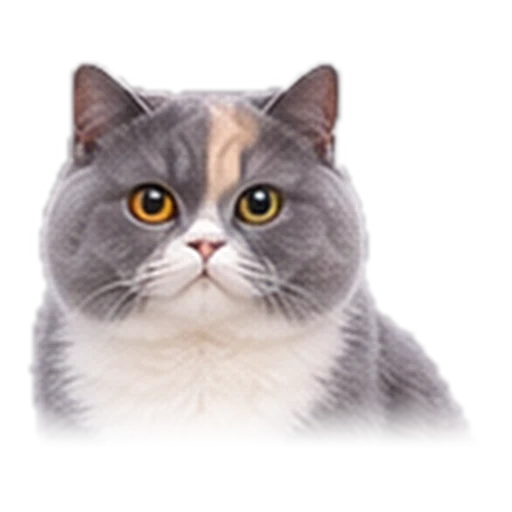
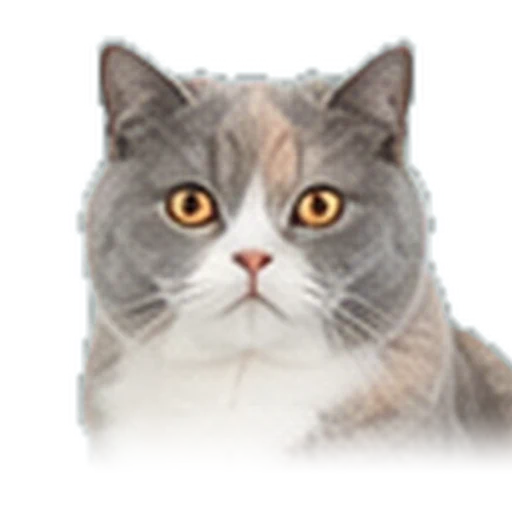
Swap in the cyan-backdrop artwork (#19)
* Crop the cat portraits past the matte damage

The delivered artwork had mattes that ate into the cats. Over a saturated
background rather than the page's own pale lilac it is unmistakable:
black-white-03 has no body below the chest, blue is missing its lower right
quarter and both front paws, and a dozen others are sliced off flat at the
base of the legs.

None of it is repairable — WebP zeroes RGB under alpha, so the pixels behind
the holes are compression noise, not fur.

All the damage is below the chest, so store the assets cropped to a bust and
ramp alpha to zero over the bottom of the crop so the cut line dissolves
instead of showing as a straight edge. Both slots that use these images are
square, so contain-and-centre them. Side effect: 4.4 MB -> 1.1 MB.

tabby and grace-dominica-blh had their heads destroyed, so there was nothing
to crop to. Delete both; send other tabbies to brown-tabby and pick longhairs
by colour. Two fresh renders bring them back with no other change.

Claude-Session: https://claude.ai/code/session_01VzzTrYmru1tcCWxj1nBoPS

* Redesign the site around the portraits

The painted busts are the best thing on the page, so they lead it now. The
whole site moves to a gallery footing: ink walls, portraits lit from above
with a warm pool beneath them, gold leaf doing the accent work that coral and
marigold used to.

Every pedigree card is a framed portrait with a name plate under it, so the
[…]

diff --git a/fur.js b/fur.js
@@ -22,18 +22,19 @@ const HAVE = new Set(["yoshi","blue","blue-white-01","blue-white-02","blue-white
  "blue-white-harlequin","blue-tabby","blue-tortie","lilac","lilac-white-03","cream",
  "cream-white-03","chocolate","chocolate-white-03","cinnamon","fawn","black",
  "black-white-03","white","black-smoke","blue-point","lilac-point","chocolate-point",
- "brown-tabby","tortie","blue-cream-tortie","lilac-cream-tortie",
+ "brown-tabby","tortie","blue-cream-tortie","lilac-cream-tortie","grace-dominica-blh",
  "chocolate-tortie","blue-cream-white-03","silver-shaded","golden-shaded",
  "mum-blue-white-03","dad-blue"]);
 
 /* No red or cinnamon-tortie artwork exists yet, so those fall to their nearest
    relative rather than to a default. Noted rather than hidden.
 
-   Two more substitutions are forced rather than chosen: the generic tabby and
-   the longhair pictures both arrived with the cat's head cut away by the
-   background matte, and the RGB under the alpha is zeroed, so there is nothing
-   to recover. Tabbies that are neither blue nor chocolate use the brown tabby;
-   longhairs are picked by colour like everyone else and lose their coat length. */
+   Tabbies that are neither blue nor chocolate use the brown tabby, there being
+   no generic tabby artwork. And Grace Dominica is a British Longhair, so coat
+   length wins over colour for her: the longhair artwork is a silver-grey cat
+   and her code says BLH p 03, fawn and white. A shorthair in the right colour
+   read worse than a longhair in the wrong one, since her coat is the whole
+   reason she stands out on this tree. */
 const NEAREST = { red: "cream", cinnamon: "cinnamon", fawn: "fawn", black: "black",
                   blue: "blue", lilac: "lilac", cream: "cream", chocolate: "chocolate" };
 
@@ -47,6 +48,7 @@ function pick(node){
   const white = meta.white || (cols.includes("white") ? "03" : null);
   const tabby = meta.tabby || (node.tabby ? "25" : null);
 
+  if (meta.longhair) return "grace-dominica-blh";
   if (!solid.length) return "white";
 
   const base = NEAREST[solid[0]] || "blue";

diff --git a/docs/cat-artwork.md b/docs/cat-artwork.md
@@ -1,49 +1,71 @@
 # The generated cat portraits
 
 `assets/cats/*.webp` are pre-rendered British Shorthair portraits, chosen per cat
-by `fur.js` from `node.cols` and the EMS code. This note records what was done to
-them and why, because the change is not reversible from what is in the tree.
+by `fur.js` from `node.cols` and the EMS code. This note records how they are
+made, what the failures were, and what to ask for next time.
 
-## What arrived
+## How to commission them
 
-The artwork was delivered as 35 full-body cutouts — a sitting cat on
-transparency. The painting itself is good. The alpha channel is not.
+Ask for the cats **on a flat, saturated backdrop, un-cut**. Do not accept a
+finished cutout.
 
-The mattes had eaten into the cats. On a light page this mostly hides; composited
-over a saturated colour it is obvious:
+This matters more than it sounds. Every British Shorthair colour is desaturated
+by definition, so a neutral studio backdrop sits right on top of the coat: across
+the four million fur pixels in this set, **29% are within ΔRGB 60 of the pale grey
+backdrop the first batch used, and the closest are identical to it**. No matter
+who does the cutout, it is guessing at that point — which is why the first batch
+came back with amputated paws and, in two cases, no head.
 
-| Asset | Damage |
-|---|---|
-| `black-white-03` | body gone below the chest — a head above a white ribbon |
-| `blue` | lower right quarter missing, paws amputated, ragged tail stub |
-| `lilac-white-03`, `chocolate-white-03` | legs cut away, bite out of one flank |
-| `black-smoke` | lower body chewed off along a ragged edge |
-| `cream`, `cream-white-03`, `cinnamon`, `chocolate`, `brown-tabby`, `white`, and others | paws sliced off flat at the base |
-| `tabby` | deep notch through the top of the skull, ears detached |
-| `grace-dominica-blh` | head erased entirely — a ruff and an ear tuft |
+| Backdrop | Min ΔRGB to any fur pixel | Fur within ΔRGB 60 |
+|---|---|---|
+| Pale grey studio | 1 | 29.3% |
+| White | 0 | 7.1% |
+| Green | 111 | 0% |
+| Cyan | 145 | 0% |
+| Magenta | 179 | 0% |
 
-Nothing could be repaired. WebP zeroes the colour channels wherever alpha is 0,
-so the pixels under the holes are not merely hidden, they are gone: sampling RGB
-in the transparent regions returns near-black compression noise, not fur.
+Any saturated colour is safe; cyan is what the current set used. Two further
+requirements: the backdrop must be **flat, not a gradient** — a gradient needs a
+different threshold at the top than the bottom — and the cut must not be applied,
+because WebP zeroes the colour channels wherever alpha is 0. Once a bad matte is
+baked in, the pixels under the holes are gone and no repair is possible.
 
-## What was done
+## How they are processed here
 
-All the damage sits below the chest, so **the assets are stored cropped to a
-bust** — the top 58% of the cat's own bounding box, re-tightened horizontally,
-padded 6% and squared. Alpha is then ramped to zero (smoothstepped) over the
-bottom 18%, so the crop line dissolves rather than showing as a straight cut.
-Output is 512×512, except `yoshi.webp` at 1024×1024 for the hero.
+1. **Despill.** Cyan lifts green and blue above red at the silhouette. Cap both at
+   red. Verified against every asset: this touches *zero* interior pixels, so it
+   only ever neutralises the fringe and can be applied globally.
+2. **Bust crop** to the top 60% of the cat's bounding box — 80% for Grace, below.
+3. **Fade** alpha to zero, smoothstepped, over the bottom 18%, so the crop line
+   dissolves instead of showing as a straight cut.
+4. **Square on the head**, not on the widest part of the body: side = crop height
+   × 1.16, centred on the head's horizontal midpoint. Squaring on the body leaves
+   a full-body source small in a lot of empty canvas.
+5. 512×512 WebP, quality 88. `yoshi.webp` is 1024 from a 1224px source and is
+   *not* replaced by a 512 one — the hero renders at 260 CSS px and the difference
+   is obvious.
 
-This is also a better portrait than the full body was at 160px, and it made the
-set 4.4 MB → 1.1 MB.
+Both slots that use these — `.portrait` and `.bigcat` — are square, so the CSS is
+`object-fit: contain; object-position: center`.
 
-Both slots that use these images — `.portrait` and `.bigcat` — are square, so the
-CSS is `object-fit: contain; object-position: center`.
+## Substitutions, all deliberate
 
-`tabby.webp` and `grace-dominica-blh.webp` were deleted: their heads were the
-damaged part, so there was nothing left to crop to. `fur.js` now sends tabbies
-that are neither blue nor chocolate to `brown-tabby`, and picks longhairs by
-colour like everyone else — Grace Dominica loses her coat length in the picture.
-Two new renders would bring both back; nothing else needs to change.
+- **Red → cream**, no red artwork exists.
+- **Cinnamon tortie → cinnamon**, likewise. This is why Hennessy Olivia Charm
+  shows as a solid cinnamon despite being `BSH q 03`.
+- **Tabbies that are neither blue nor chocolate → brown tabby**, no generic
+  tabby artwork.
+- **Grace Dominica** is `BLH p 03` — fawn and white — but the longhair artwork is
+  a silver-grey cat. Coat length wins over colour for her, because the coat is the
+  whole reason she stands out on this tree. Her crop keeps more chest than the
+  others so the ruff actually reads; at the standard 60% she looks shorthaired.
 
-The originals are in git history at commit `4febd11`.
+## Still on the old batch
+
+Three assets carry 13 of the 45 cats and are still from the original grey-backdrop
+batch: `lilac` (5 cats), `cream-white-03` (5) and `cream` (3). They are undamaged,
+but the face shape differs slightly from the cyan set. A follow-up render of those
+three on cyan would make the set uniform.
+
+Earlier states are in git history: the original full-body cutouts at `4febd11`,
+the first bust crop at `16adfc0`.
